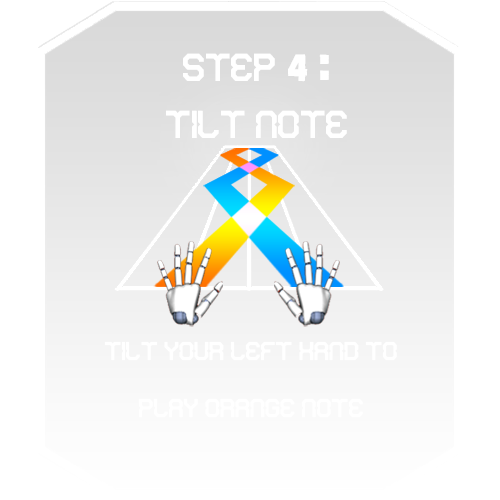
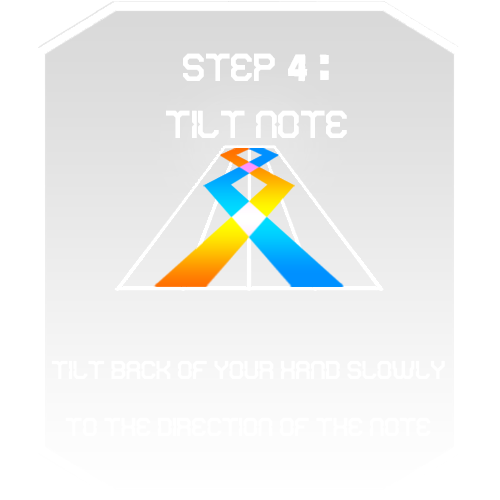
Update Picture

Changed region(s): [[0.3, 0.48, 0.45, 0.66], [0.54, 0.48, 0.69, 0.66]]

diff --git a/Assets/Script/TutorialScript/Tutorial.cs b/Assets/Script/TutorialScript/Tutorial.cs
@@ -30,7 +30,7 @@ public class Tutorial : MonoBehaviour {
 	private readonly float DELAY = 0.2f;
 	void Awake(){
 		spriteList = new List<Sprite>();
-		for(int i=1 ;i<47;i++){
+		for(int i=1 ;i<46;i++){
 			Sprite temp = (Sprite.Create(Resources.Load ("Tutorial/" + i) as Texture2D,new Rect(0, 0, 512,512), new Vector2(0, 0),100.0f));
 			Debug.Log (temp);
 			spriteList.Add (temp);
@@ -44,10 +44,10 @@ public class Tutorial : MonoBehaviour {
 		imageNumber = 0;
 		isImageChange = false;
 		phaseNumber = 0;
-		timeStart = new float[]{ 0, 4, 8, 12, 20, 28, 32, 38, 48, 54, 64, 70, 88, 90, 92, 94 };
-		timeEnd = new float[]{ 4, 8, 12, 16, 24, 32, 38, 40, 54, 56, 70, 72, 90, 92, 94, 98 };
-		loopPictureNumber = new int[]{ 1, 1, 5, 2, 1, 1, 6, 1, 12, 1, 10, 1, 1, 1, 1, 1 };
-		isSingle = new bool[]{ true, true, false, false, true, true, false, true, false, true, false, true, true, true, true, true };
+		timeStart = new float[]{ 0, 4, 8, 12, 20, 28, 32, 38, 48, 54, 64, 66.5f, 70.5f, 88, 90, 93, 97 };
+		timeEnd   = new float[]{ 4, 8, 12, 16, 24, 32, 38, 40, 54, 56, 66.5f, 70.5f, 72, 90, 93, 97, 101 };
+		loopPictureNumber = new int[]{ 1, 1, 5, 2, 1, 1, 6, 1, 12, 1, 6, 3, 1, 1, 1, 1, 1 };
+		isSingle = new bool[]{ true, true, false, false, true, true, false, true, false, true, false, false ,true, true, true, true, true };
 		picture = images.GetComponent<Image> ().sprite;
 		rect = images.GetComponent<RectTransform> ();
 //		images.GetComponent<UnityEngine.UI.Image> ().sprite = spriteList [0];
@@ -124,7 +124,7 @@ public class Tutorial : MonoBehaviour {
 	}
 
 	private void ShowLoopPicture(){
-		if (frameCount % 15 == 0 || frameCount == 0) {
+		if (frameCount % 16 == 0 || frameCount == 0) {
 			images.GetComponent<UnityEngine.UI.Image> ().sprite = spriteList [imageNumber + loopImage];
 			++loopImage;
 			if (loopImage >= loopPictureNumber [phaseNumber]) {

diff --git a/Assets/Script/TutorialScript/SoundTutorial.cs b/Assets/Script/TutorialScript/SoundTutorial.cs
@@ -1,0 +1,37 @@
+using UnityEngine;
+using System.Collections;
+using UnityEngine.Audio;
+
+[RequireComponent(typeof(AudioSource))]
+public class SoundTutorial : MonoBehaviour {
+
+	public AudioSource baseSource;
+
+	public float offset;
+	private bool isPlayed = false;
+
+	public void playAudio(){
+		baseSource.PlayOneShot (baseSource.clip);
+	}
+
+	void Start(){
+		baseSource = GetComponent<AudioSource> ();
+
+		offset = GlobalData.selectedTrack.offset;
+		string songName = GlobalData.selectedTrack.songName;
+
+		baseSource.clip = Resources.Load (songName + "Audio.mp3") as AudioClip;
+	}
+
+	void Update () {
+
+		if (!isPlayed && TimerScript.timePass >= (0 + offset)) {
+			playAudio ();
+			isPlayed = true;
+		}
+
+		if (!baseSource.isPlaying && isPlayed) { // song ends
+			Application.LoadLevel("SongSelection");
+		}
+	}
+}

diff --git a/Assets/Script/SongScript/LoadFile.cs b/Assets/Script/SongScript/LoadFile.cs
@@ -567,7 +567,7 @@ public class LoadFile : MonoBehaviour {
 					secondCamera.gameObject.SetActive (false);
 					leapCamera.SetActive (false);
 					//public Track(string songName, string composer,Difficulty dificulty, int level, float bpm, float offset)
-					Track track = new Track(nameList[0], "Tutorial", Difficulty.HARD, 0, 120,  -0.75f);
+					Track track = new Track(nameList[0], "Tutorial", Difficulty.HARD, 0, 120,  -0.075f);
 					GlobalData.selectedTrack = track;
 					UnityEngine.Application.LoadLevel ("GameplayTutorial");
 				}
